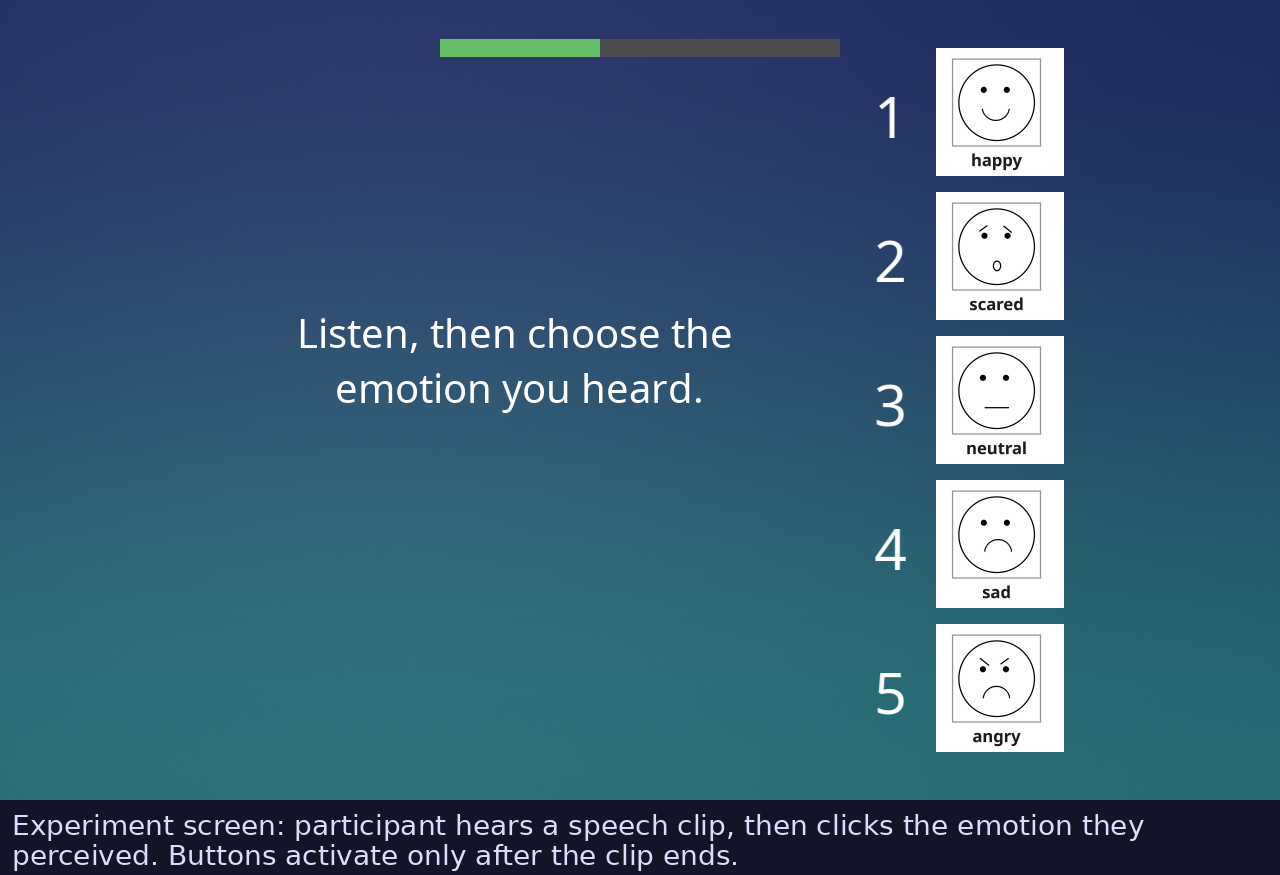
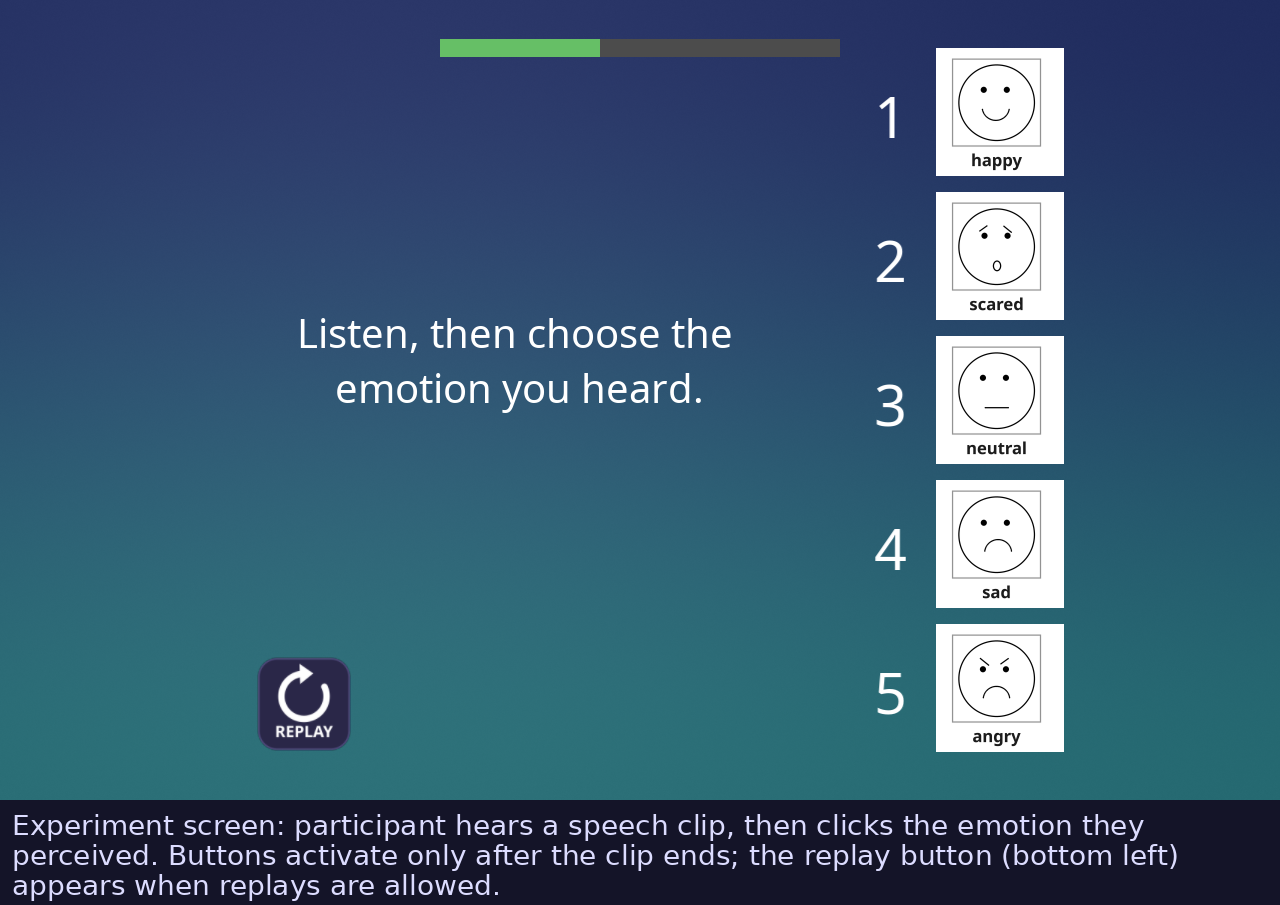
docs: the renamed modes, the slideshow switch, Clear and Reset; new screenshots
README: Familiarization / Practice / Test (with the original's names and the
unchanged --mode values), no practice trials, the Slideshow checkbox, Clear...,
Reset to defaults, remembered settings, full screen by default, New ID, and
--background-first in the CLI reference.

The experiment screenshot now shows the redrawn replay button (the script ran
with replays off, so it was never in the picture); the setup screenshot shows
the new controls.

diff --git a/scripts/screenshot_experiment.py b/scripts/screenshot_experiment.py
@@ -41,13 +41,16 @@ win = visual.Window(
 )
 
 # Build a TestExperiment in Test mode with English captions, all 5 emotions,
-# over the default background (the calm gradient).
+# over the default background (the calm gradient), with replays allowed so the
+# replay button is in the picture.
 exp = TestExperiment(
     win,
     caption=Caption.ENGLISH,
     emotions=list(EMOTIONS_IN_ORDER),
     mode=SessionMode.TEST,
     background=resolve_background(SPEC_DEFAULT, picture_folders=background_folders()),
+    allow_replays=True,
+    max_replays=5,
 )
 
 # Simulate mid-session state: 4 of 10 trials done.
@@ -94,7 +97,8 @@ except Exception:
     font = ImageFont.load_default()
 
 text = ("Experiment screen: participant hears a speech clip, then clicks "
-        "the emotion they perceived. Buttons activate only after the clip ends.")
+        "the emotion they perceived. Buttons activate only after the clip ends; "
+        "the replay button (bottom left) appears when replays are allowed.")
 chars_per_line = max(40, w // (font_size // 2 + 1))
 wrapped = "\n".join(textwrap.wrap(text, width=chars_per_line))
 

diff --git a/README.md b/README.md
@@ -42,12 +42,12 @@ and homage.
 |---|---|
 | **Millisecond-accurate RTs** | PTB-scheduled audio onset; RT measured from both offset (default, matching legacy) and onset |
 | **Test mode** | Blind test — no feedback — full confusion-matrix report |
-| **Passive training** | Correct label revealed after each clip; participant learns the mapping |
-| **Active training** | Participant responds, then correct (green) / wrong (orange) feedback before advancing; optionally *retry until correct*, as in the original |
+| **Familiarization** | The participant just listens and watches: each clip's correct face is revealed after it (the original's passive training) |
+| **Practice** | The participant responds, then gets correct (green) / wrong (orange) feedback before advancing; optionally *retry until correct*, as in the original (its active training) |
 | **Emoticon buttons** | Crisp at any screen size (drawn at 512 px from the original artwork); captions in English, Spanish or Traditional Chinese, or none, set in Noto Sans |
 | **Begin screen** | The participant starts the session with a big **Begin** button (or Space/Enter); the report's start time and duration count from that press |
 | **Background pictures** | Calm, text-free backgrounds to keep participants engaged: a soothing gradient by default, 30 bundled scenes, your own pictures via **Add picture…**, or a slideshow that changes every N trials |
-| **Practice and balanced order** | Opt-in practice trials with feedback before a training session (never scored), and a shuffle with at most N of one emotion in a row |
+| **Balanced order** | A shuffle with at most N of one emotion in a row, reproducible from the recorded seed |
 | **Replays** | Off by default; when allowed, a limit per trial that starts at the number of emotions tested (1–10, or no limit) |
 | **Participant IDs** | BIDS-style `sub-001`, filled in with the next free number; an ID that already has reports can be amended, reused or edited |
 | **Engagement and pacing** | Opt-in: a *Next* button between trials (the original's Extra button), a star every N trials, a break screen every N trials. None of it depends on whether answers are right |
@@ -255,40 +255,42 @@ The settings are grouped in boxes: **Participant**, **Session** and **Order and
 replays** on the left; **Participant screen**, **Engagement and pacing** and
 **Audio and files** on the right. Hover over any setting for what it does, what
 it does to the data, and its default. Settings that don't apply to the current
-choices are hidden: Practice trials outside the training modes, Retry until
-correct outside Active Training, the slideshow options unless the background
-is the slideshow.
+choices are hidden: Retry until correct outside Practice, the slideshow options
+until Slideshow is ticked, the replay limit until replays are allowed.
+
+Your settings are remembered: they're saved when a session starts, when
+Calibration opens and when the window closes. **Reset to defaults** (top right)
+puts every session option back — Test with all five emotions, shuffled, no
+replays, full screen, no captions, the calm gradient, no pacing — and keeps the
+audio and save folders, the experimenter and the Volume (your SPL calibration
+depends on it).
 
 **Participant ID** is filled in with the next free BIDS-style ID (`sub-001`,
 `sub-002`, ...), counting the reports and unfinished sessions in the save
-folder, and moves on after every recorded session; **New ID** fills it in
-again. If an ID you type already has reports, the window offers to **use** the
+folder, and moves on after every recorded session. **New ID** fills it in
+again after you've typed something else (it's greyed out while the field
+already holds the next free ID). If an ID you type already has reports, the
+window offers to **use** the
 next free variant (`sub-003` becomes `sub-005` if `sub-004` is taken; `jo`
 becomes `jo2`), to **reuse** it (the earlier reports are kept: every file name
 carries its date and time), or to **edit** it.
 
-Choose a session mode:
+Choose a session mode, listed in the order a protocol usually runs them:
 
-| Mode | What it does |
-|---|---|
-| **Test** | Blind test — no feedback |
-| **Passive Training** | Correct answer shown after each clip |
-| **Active Training** | Participant responds, then correct/wrong feedback |
+| Mode | What it does | In the original |
+|---|---|---|
+| **Familiarization** | The participant listens and watches: after each clip its face lights up. Nothing to answer | passive training |
+| **Practice** | The participant answers, then sees the correct face (green) and, if wrong, their choice (orange). Answers are recorded | active training |
+| **Test** | No feedback; this is what the confusion matrix, % correct, Hu and κ come from | test |
 
-**Retry until correct** (Active Training only) works the way the original
+On the command line they are `--mode passive`, `--mode active` and `--mode
+test` (the default), as before.
+
+**Retry until correct** (Practice only) works the way the original
 did: a wrong answer greys out that face ("Not quite!") and the participant
 chooses again until the right one is picked, without being shown the answer.
 Only the first answer is scored and timed. The per-trial CSV's `attempts` and
 `choices` columns keep every answer, e.g. `Sad > Angry > Happy`.
-
-**Practice trials** (training modes only; 0 = off) come right after Begin.
-Each one gets active-training feedback, and then *Well done! Now for the real
-thing.* waits for *Start*. Practice answers are never scored. They are kept in
-the session's `.json`, not the CSV. The practice clips are picked from the
-session's own clips, one emotion each before any repeats, so those clips are
-heard twice. To avoid that, point `--practice-dir` at separate clips. A Test
-has no practice: to warm a participant up before one, run a short Active
-Training session first.
 
 **At most N of one emotion in a row** (0 = no limit) shuffles so that long runs
 of one emotion can't happen; a run invites guessing. The order is still random
@@ -303,8 +305,11 @@ at the number of emotions being tested (2 for happy vs sad) and can be set from
 away. Each replay restarts the RT clock at its onset, and the per-trial CSV's
 `replays` column counts them.
 
-**Calibration...** opens the stimulus tools (next section); **Resume...** lists
-the unfinished sessions in the save folder.
+**Calibration...** opens the stimulus tools (next section). **Resume...**
+lists the unfinished sessions in the save folder; **Clear...** under it puts
+away the ones you won't finish: they move to the save folder's `cleared/`
+folder (nothing is deleted, and an ID used there is never handed out again)
+and stop being offered.
 
 **Background** sets what the participant sees behind the buttons:
 
@@ -321,11 +326,16 @@ the unfinished sessions in the save folder.
   metadata, including phone GPS. Delete files from that folder to remove them.
   Bright photos are dimmed slightly, and the on-screen text gets a translucent
   panel behind it.
-- **Slideshow (all pictures)**: the bundled and added pictures take turns,
-  changing every *N* trials (1–20) and optionally shuffled, as in the original.
-  Pictures only change *between* trials and are decoded ahead of time, so they
-  never touch audio timing or reaction times.
 - **None (plain)**: the classic plain grey screen.
+
+Tick **Slideshow** to let the bundled and added pictures take turns, starting
+with the one chosen above: a new picture every *N* trials (1–20), shuffled or
+in the list's order, as in the original. Pictures only change *between* trials
+and are decoded ahead of time, so they never touch audio timing or reaction
+times.
+
+**Full screen** is on by default; with a second display connected, the session
+opens full screen there automatically and the setup window stays on yours.
 
 When the session starts, the participant window shows the background and a
 large **Begin** button. The session, and its recorded start time, begins when
@@ -571,7 +581,7 @@ Options:
   --audio-dir PATH   Folder of .wav stimuli (default: bundled reference clips)
   --save-dir PATH    Output folder for reports [save_location/ next to the app,
                      or in the current folder when run from source]
-  --mode MODE        test | passive | active  [test]
+  --mode MODE        test | passive (Familiarization) | active (Practice)  [test]
   --emotions TAGS    Comma-separated subset, e.g. hap,sad,ang  [all five]
   --caption LANG     none | english | mandarin | spanish  [none]
   --volume FLOAT     Playback volume 0–1, for the clips and the SPL tone  [0.8]
@@ -584,14 +594,13 @@ Options:
   --background SPEC  default | none | slideshow | picture file | picture folder  [default]
   --background-every N        Slideshow: change picture every N trials (1–20)  [5]
   --[no-]background-shuffle   Slideshow: shuffle the picture order  [on]
+  --background-first PICTURE  Slideshow: the picture to start with  [the first in the order]
   --seed N           Random seed for the trial and picture order  [random; recorded]
   --max-run N        Shuffle with at most N of one emotion in a row (0 = no limit)  [0]
-  --practice N       Training modes: N practice trials with feedback first, not scored  [0]
-  --practice-dir PATH     Clips for the practice trials  [the session's own clips]
   --next-button      Between trials, wait for a click on "Ready for the next one?"
   --stars-every N    A star every N trials (0 = off)  [0]
   --break-every N    A break screen every N trials (0 = off)  [0]
-  --retry-until-correct   Active training: grey out a wrong face and ask again
+  --retry-until-correct   Practice: grey out a wrong face and ask again
                           until right (only the first answer is scored)
   --play-tone        Play the SPL tone (RMS --tone-rms, --tone-seconds long, at --volume)
   --resume LOG       Continue an interrupted session from its .partial.jsonl file
